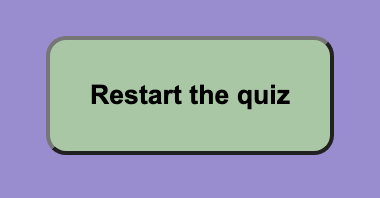
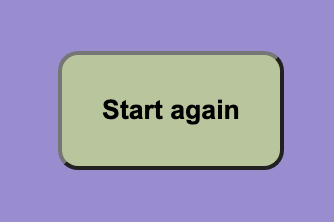
New screenshots added to assets and added to the readme file with descriptions for the UX surface section

Changed region(s): [[0.1198, 0.1818, 0.8982, 0.7879], [0.2395, 0.4242, 0.7784, 0.5758]]

diff --git a/README.md b/README.md
@@ -46,8 +46,13 @@ The website uses a sequential structure, based on one web page. This page was de
 
 ## Surface
 
-![Colour scheme](friends-colour-scheme.png)
-A colour palette using lilac as the predominant colour is used to feel familiar to the brand of the tv show, because of it is instantly recognisable to fans. This is accented with a contrasting colour of green.
+![Colour scheme](assets/images/friends-colour-scheme.png)
+ 
+A background colour of lilac was used to remind the user of the tv show, as this colour is repeated throughout the show. This is accented with a contrasting colour of green. Dark and light colour tones are used in contrast to make text stand out against background colours. This makes the site more accessible for the user. The buttons are clearly defined from the background. 
+
+The hover function over the buttons (on devices that support this option) makes the quiz easier to navigate. Buttons turn black as you pass over them, as well as the cursor appearance changing.
+
+![Hover function](assets/images/hover-function.png)
 
 ## Features
 
@@ -68,31 +73,32 @@ A colour palette using lilac as the predominant colour is used to feel familiar 
 - **The Quiz Section**
 
   - This section comprises of a question box and four multiple choice answers below each question. As the user hovers over the answers with their mouse, each will be highlighted.
-  - The user will be able to submit their answer and a pop-up will make it known to the user if they answered correctly. The quiz will then automatically generate the next question when the user clicks okay.
+  - The user will be able to submit their answer and the button will temporarily turn green or red depending on the user entering a correct or incorrect answer.
+  ![Correct answer](assets/images/green-button.png)
+  - The quiz will then automatically generate the next question after a period of a few seconds
 
 ![Quiz](assets/images/quiz.png)
 
 - **Restart Button**
 
   - This section has a button specifically to allow the user to restart the page, for instance if they want to beat their own score.
-  - When the user presses the button, the page is refreshed so that the first question is shown again.
+  - When the user presses the button, the quiz is refreshed so that the first question is shown again.
 
 ![Restart](assets/images/restart.png)
 
 ### Features Left to Implement
 
-- In the future there is potential to add levels to the quiz, so once the initial ten questions are answered, the user has the option to proceed onto level 2, and work through another set of questions. This would keep the user on the page longer, and even encourage them to revisit the page again another time. The questions could be updated regularly to increase the challenge.
-
-## Surface
-
-A background colour of lilac was used to remind the user of the tv show, as this colour is repeated throughout the show. Dark and light colour tones are used in contrast to make text stand out against background colours. This makes the site more accessible for the user. The buttons are clearly defined from the background. The hover function over the buttons (on devices that support this option) makes the quiz easier to navigate.
+- In the future there is potential to add levels to the quiz, so once the initial 15 questions are answered, the user has the option to proceed onto level 2, and work through another set of questions. This would keep the user on the page longer, and even encourage them to revisit the page again another time. The questions could be updated regularly to increase the challenge.
+- A timer function could be implemented to make the game more exciting
+- User details could be taken so that all messaging to the user is personalised ie. when the score is delivered at the end, a name could also be included
 
 ## Testing
 
 I tested playing the game on different browsers e.g. Chrome and Safari
-I have run through both correct and incorrect answers to see that the correct alerts are received
-I confirmed that the colour contrast is accessible and easy to read using webaim.org
-I confirmed that the game looks good on different screen sizes, from phone size, tablets to laptops and larger screens
+I have run through both correct and incorrect answers to see that the correct colours are displayed on the buttons
+I have tested that the hover function works on devices where this is enabled, and that it is disabled on touch screen devices
+I have confirmed that the colour contrast is accessible and easy to read using webaim.org
+I have confirmed that the game looks good on different screen sizes, from phone size, tablets to laptops and larger screens
 
 ## Validator Testing
 
